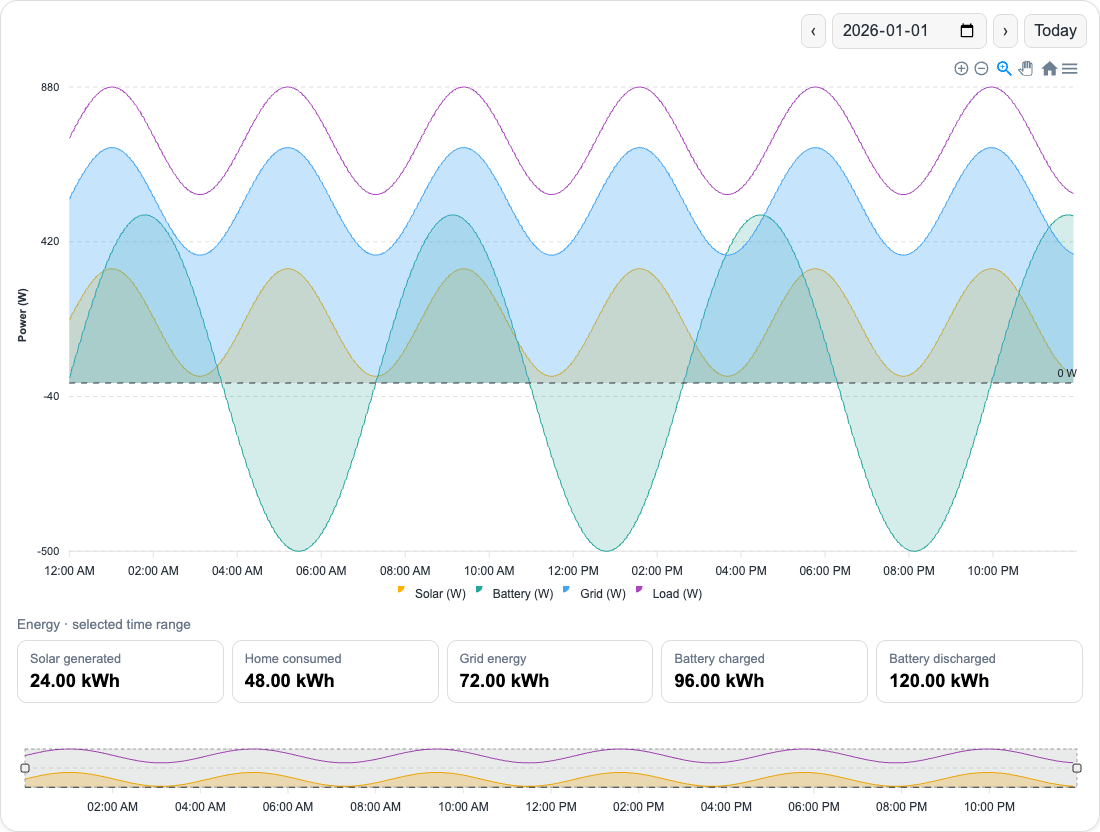
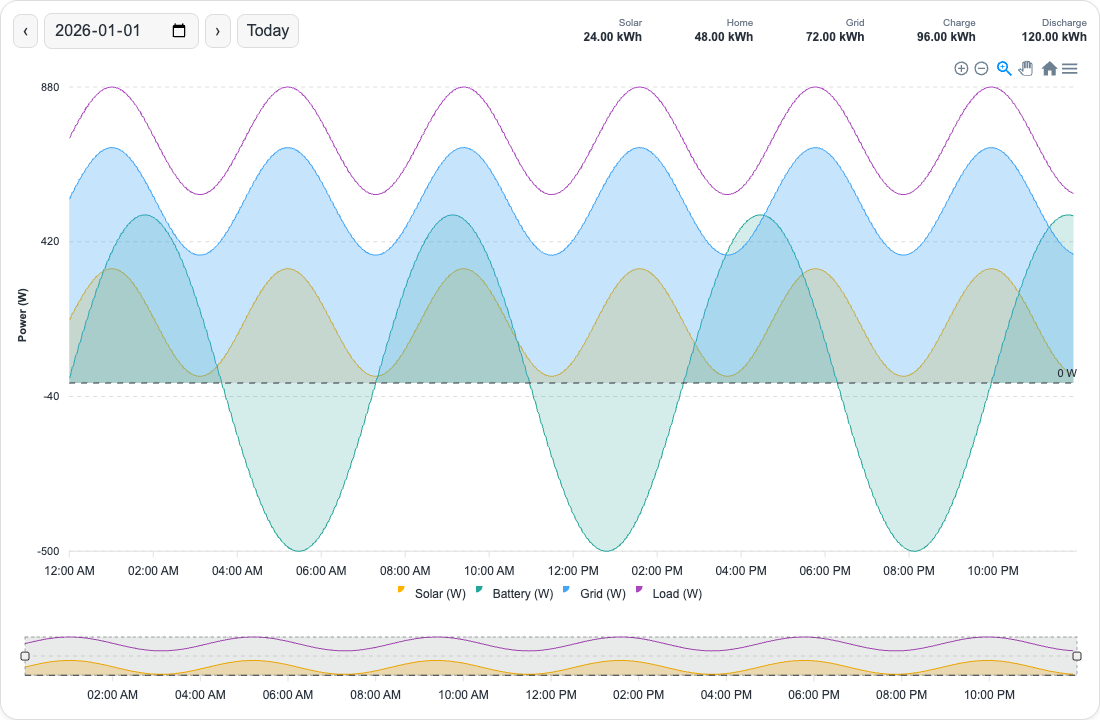
Move energy totals into compact top-right header without increasing card height

diff --git a/dist/solar-energy-flow-card.js b/dist/solar-energy-flow-card.js
@@ -43,6 +43,7 @@ const ApexCharts = SolarEnergyCharts;
 /* global SolarEnergyCharts */
 const ENERGY_KEYS = ['solar', 'battery', 'grid', 'load'];
 const ENERGY_COLORS = ['#ffb300', '#26a69a', '#42a5f5', '#ab47bc'];
+const ENERGY_SUMMARY_SHORT = { solar: 'Solar', load: 'Home', grid: 'Grid', grid_import: 'Import', grid_export: 'Export', battery_charge: 'Charge', battery_discharge: 'Discharge' };
 const ENERGY_SUMMARY = {
   solar: 'Solar generated', load: 'Home consumed', grid: 'Grid energy',
   grid_import: 'Grid imported', grid_export: 'Grid exported',
@@ -150,7 +151,7 @@ class SolarEnergyFlowCard extends HTMLElement {
   }
 
   connectedCallback() { if (this.config) this.render(); }
-  disconnectedCallback() { this.renderId = (this.renderId || 0) + 1; this.destroyCharts(); }
+  disconnectedCallback() { this.layoutObserver?.disconnect(); this.renderId = (this.renderId || 0) + 1; this.destroyCharts(); }
   getCardSize() { return Math.ceil((this.config?.apex_config?.chart?.height || 550) / 50) + 3; }
   getGridOptions() { return { columns: 24, rows: 11, min_columns: 6, min_rows: 6 }; }
 
@@ -263,9 +264,11 @@ class SolarEnergyFlowCard extends HTMLElement {
       const element = this.shadowRoot.querySelector(`[data-energy="${item.key}"]`);
       if (!element) continue;
       const result = this.loading || this.error ? { value: null, reason: this.error || 'Loading energy history' } : this.energyTotal(item);
-      element.querySelector('.summary-label').textContent = item.label;
+      element.querySelector('.summary-label').textContent = ENERGY_SUMMARY_SHORT[item.key];
       element.querySelector('.summary-value').textContent = result.value === null ? '—' : `${result.value.toFixed(this.config.summary?.precision ?? 2)} kWh`;
       element.querySelector('.summary-note').textContent = result.reason;
+      element.title = `${item.label}: ${result.value === null ? result.reason : element.querySelector('.summary-value').textContent}`;
+      element.setAttribute('aria-label', element.title);
     }
   }
 
@@ -329,6 +332,31 @@ class SolarEnergyFlowCard extends HTMLElement {
     return result;
   }
 
+  summaryChartHeight(height) {
+    if (!this.summaryEntities.length || typeof height !== 'number') return height;
+    const row = this.shadowRoot?.querySelector('.header-row')?.getBoundingClientRect?.();
+    const controls = this.shadowRoot?.querySelector('.controls')?.getBoundingClientRect?.();
+    // A wrapped compact summary uses chart space, keeping the card's total height unchanged.
+    const extra = row && controls ? Math.max(0, row.height - controls.height) : 0;
+    return Math.max(1, height - extra);
+  }
+
+  observeSummaryLayout() {
+    this.layoutObserver?.disconnect();
+    if (!this.summaryEntities.length || typeof ResizeObserver === 'undefined') return;
+    const renderId = this.renderId;
+    this.layoutObserver = new ResizeObserver(() => {
+      if (renderId !== this.renderId) return;
+      const chart = this.charts?.[0];
+      const height = this.summaryChartHeight(this.config.apex_config?.chart?.height ?? 550);
+      if (chart && typeof height === 'number' && Math.abs(Number(chart.w.config.chart.height) - height) > 0.5) {
+        chart.updateOptions({ chart: { height } }, false, false).catch(() => {});
+      }
+    });
+    const row = this.shadowRoot.querySelector('.header-row');
+    if (row) this.layoutObserver.observe(row);
+  }
+
   chartOptions(isBrush = false) {
     const { start, end } = this.bounds();
     const visible = isBrush ? this.series.filter(series => series.show?.in_brush === true) : this.series;
@@ -358,6 +386,7 @@ class SolarEnergyFlowCard extends HTMLElement {
       noData: { text: 'No recorded history for this date' },
     }, isBrush ? this.config.brush?.apex_config : this.config.apex_config);
     // Identity, history data, and date boundaries belong to this card, not raw Apex options.
+    if (!isBrush) options.chart.height = this.summaryChartHeight(options.chart.height);
     options.chart.id = isBrush ? `${this.chartId}-brush` : this.chartId;
     options.chart.events = energyMerge(options.chart.events, { beforeResetZoom: () => {
       // Apex's brush keeps its old selection after toolbar reset unless it is reset too.
@@ -422,6 +451,7 @@ class SolarEnergyFlowCard extends HTMLElement {
         await chart.render();
       }
       if (renderId !== this.renderId || this.isConnected === false) this.destroyCharts();
+      else this.observeSummaryLayout();
     }).catch(error => {
       this.destroyCharts();
       if (renderId !== this.renderId) return;
@@ -432,27 +462,32 @@ class SolarEnergyFlowCard extends HTMLElement {
 
   render() {
     if (!this.shadowRoot) return;
+    this.layoutObserver?.disconnect();
     this.renderId = (this.renderId || 0) + 1;
     const day = this.dayString(this.date);
     const title = this.config.header?.title ?? this.config.title ?? '';
     const showTitle = this.config.header?.show !== false && title.trim() !== '';
     const showBrush = this.config.experimental?.brush !== false;
+    const summaryMarkup = this.summaryEntities.length ? `<section class="energy-summary" aria-label="Energy summary for selected time range"><p class="summary-caption"></p><div class="summary-grid">${this.summaryEntities.map(item => `<div class="summary-item" data-energy="${item.key}" tabindex="0"><div class="summary-label"></div><div class="summary-value"></div><div class="summary-note"></div></div>`).join('')}</div></section>` : '';
     this.shadowRoot.innerHTML = `<style>
       :host{display:block;min-width:0}ha-card{padding:12px;overflow:hidden}
-      .head{display:flex;align-items:center;gap:12px;flex-wrap:wrap;margin-bottom:8px}
-      .title{font-size:1.2rem;font-weight:500;flex:1 1 100%;overflow-wrap:anywhere}
+      .head{display:flex;flex-direction:column;gap:8px;margin-bottom:8px}.header-row{display:flex;align-items:center;gap:8px;flex-wrap:wrap;min-width:0}
+      .title{font-size:1.2rem;font-weight:500;overflow-wrap:anywhere}
       .controls{display:flex;justify-content:flex-end;align-items:center;gap:6px;flex:1;min-width:0}
       button,input{font:inherit;border:1px solid var(--divider-color,#ddd);border-radius:8px;background:var(--secondary-background-color,#f7f7f7);padding:7px 9px;color:var(--primary-text-color,inherit);min-width:0}
       button{cursor:pointer;flex-shrink:0}input{max-width:165px}button:focus-visible,input:focus-visible{outline:2px solid var(--primary-color,#03a9f4)}
       #chart,#brush{min-width:0}.status{font-size:.9rem;color:var(--secondary-text-color,#697586)}
-      .energy-summary{margin:10px 4px 16px}.summary-caption{font-size:.85rem;color:var(--secondary-text-color,#697586);margin:0 0 8px}
-      .summary-grid{display:grid;grid-template-columns:repeat(auto-fit,minmax(125px,1fr));gap:8px}
-      .summary-item{padding:10px 12px;border:1px solid var(--divider-color,#ddd);border-radius:10px;min-width:0}
-      .summary-label{font-size:.8rem;color:var(--secondary-text-color,#697586)}.summary-value{font-size:1.15rem;font-weight:600;margin-top:4px;font-variant-numeric:tabular-nums}
-      .summary-note{font-size:.75rem;color:var(--secondary-text-color,#697586);overflow-wrap:anywhere}.summary-note:empty{display:none}
+      .header-row:has(.energy-summary) .controls{flex:0 1 auto}
+      .energy-summary{flex:1 1 350px;max-width:550px;min-width:0;margin-left:auto;overflow-x:auto}
+      .summary-grid{display:grid;grid-auto-flow:column;grid-auto-columns:minmax(62px,1fr);gap:6px}
+      .summary-item{min-width:0;text-align:right;line-height:1.25;border-radius:3px}
+      .summary-label{font-size:10px;color:var(--secondary-text-color,#697586);white-space:nowrap}
+      .summary-value{font-size:12px;font-weight:600;white-space:nowrap;font-variant-numeric:tabular-nums;color:var(--primary-text-color,inherit)}
+      .summary-caption,.summary-note{position:absolute;width:1px;height:1px;padding:0;overflow:hidden;clip-path:inset(50%);white-space:nowrap}
+      .summary-item:focus-visible{outline:2px solid var(--primary-color,#03a9f4);outline-offset:-2px}
       .apexcharts-tooltip,.apexcharts-menu{color:#222}.apexcharts-theme-dark{color:#eee}
       @media(max-width:400px){ha-card{padding:8px}.controls{gap:4px}button,input{padding:6px}input{width:130px}}
-    </style><ha-card><div class="head">${showTitle ? '<div class="title"></div>' : ''}<div class="controls"><button id="prev" aria-label="Previous day">‹</button><input id="date" aria-label="History date" type="date" value="${day}"><button id="next" aria-label="Next day">›</button><button id="today">Today</button></div></div><div class="status" role="status"></div><div id="chart"></div>${this.summaryEntities.length ? `<section class="energy-summary" aria-label="Energy summary"><p class="summary-caption"></p><div class="summary-grid">${this.summaryEntities.map(item => `<div class="summary-item" data-energy="${item.key}"><div class="summary-label"></div><div class="summary-value"></div><div class="summary-note"></div></div>`).join('')}</div></section>` : ''}${showBrush ? '<div id="brush"></div>' : ''}</ha-card>`;
+    </style><ha-card><div class="head">${showTitle ? '<div class="title"></div>' : ''}<div class="header-row"><div class="controls"><button id="prev" aria-label="Previous day">‹</button><input id="date" aria-label="History date" type="date" value="${day}"><button id="next" aria-label="Next day">›</button><button id="today">Today</button></div>${summaryMarkup}</div></div><div class="status" role="status"></div><div id="chart"></div>${showBrush ? '<div id="brush"></div>' : ''}</ha-card>`;
     const heading = this.shadowRoot.querySelector('.title');
     if (showTitle && heading) heading.textContent = title;
     const status = this.shadowRoot.querySelector('.status');

diff --git a/cards/solar-energy-flow-card/solar-energy-flow-card.js b/cards/solar-energy-flow-card/solar-energy-flow-card.js
@@ -1,6 +1,7 @@
 /* global SolarEnergyCharts */
 const ENERGY_KEYS = ['solar', 'battery', 'grid', 'load'];
 const ENERGY_COLORS = ['#ffb300', '#26a69a', '#42a5f5', '#ab47bc'];
+const ENERGY_SUMMARY_SHORT = { solar: 'Solar', load: 'Home', grid: 'Grid', grid_import: 'Import', grid_export: 'Export', battery_charge: 'Charge', battery_discharge: 'Discharge' };
 const ENERGY_SUMMARY = {
   solar: 'Solar generated', load: 'Home consumed', grid: 'Grid energy',
   grid_import: 'Grid imported', grid_export: 'Grid exported',
@@ -108,7 +109,7 @@ class SolarEnergyFlowCard extends HTMLElement {
   }
 
   connectedCallback() { if (this.config) this.render(); }
-  disconnectedCallback() { this.renderId = (this.renderId || 0) + 1; this.destroyCharts(); }
+  disconnectedCallback() { this.layoutObserver?.disconnect(); this.renderId = (this.renderId || 0) + 1; this.destroyCharts(); }
   getCardSize() { return Math.ceil((this.config?.apex_config?.chart?.height || 550) / 50) + 3; }
   getGridOptions() { return { columns: 24, rows: 11, min_columns: 6, min_rows: 6 }; }
 
@@ -221,9 +222,11 @@ class SolarEnergyFlowCard extends HTMLElement {
       const element = this.shadowRoot.querySelector(`[data-energy="${item.key}"]`);
       if (!element) continue;
       const result = this.loading || this.error ? { value: null, reason: this.error || 'Loading energy history' } : this.energyTotal(item);
-      element.querySelector('.summary-label').textContent = item.label;
+      element.querySelector('.summary-label').textContent = ENERGY_SUMMARY_SHORT[item.key];
       element.querySelector('.summary-value').textContent = result.value === null ? '—' : `${result.value.toFixed(this.config.summary?.precision ?? 2)} kWh`;
       element.querySelector('.summary-note').textContent = result.reason;
+      element.title = `${item.label}: ${result.value === null ? result.reason : element.querySelector('.summary-value').textContent}`;
+      element.setAttribute('aria-label', element.title);
     }
   }
 
@@ -287,6 +290,31 @@ class SolarEnergyFlowCard extends HTMLElement {
     return result;
   }
 
+  summaryChartHeight(height) {
+    if (!this.summaryEntities.length || typeof height !== 'number') return height;
+    const row = this.shadowRoot?.querySelector('.header-row')?.getBoundingClientRect?.();
+    const controls = this.shadowRoot?.querySelector('.controls')?.getBoundingClientRect?.();
+    // A wrapped compact summary uses chart space, keeping the card's total height unchanged.
+    const extra = row && controls ? Math.max(0, row.height - controls.height) : 0;
+    return Math.max(1, height - extra);
+  }
+
+  observeSummaryLayout() {
+    this.layoutObserver?.disconnect();
+    if (!this.summaryEntities.length || typeof ResizeObserver === 'undefined') return;
+    const renderId = this.renderId;
+    this.layoutObserver = new ResizeObserver(() => {
+      if (renderId !== this.renderId) return;
+      const chart = this.charts?.[0];
+      const height = this.summaryChartHeight(this.config.apex_config?.chart?.height ?? 550);
+      if (chart && typeof height === 'number' && Math.abs(Number(chart.w.config.chart.height) - height) > 0.5) {
+        chart.updateOptions({ chart: { height } }, false, false).catch(() => {});
+      }
+    });
+    const row = this.shadowRoot.querySelector('.header-row');
+    if (row) this.layoutObserver.observe(row);
+  }
+
   chartOptions(isBrush = false) {
     const { start, end } = this.bounds();
     const visible = isBrush ? this.series.filter(series => series.show?.in_brush === true) : this.series;
@@ -316,6 +344,7 @@ class SolarEnergyFlowCard extends HTMLElement {
       noData: { text: 'No recorded history for this date' },
     }, isBrush ? this.config.brush?.apex_config : this.config.apex_config);
     // Identity, history data, and date boundaries belong to this card, not raw Apex options.
+    if (!isBrush) options.chart.height = this.summaryChartHeight(options.chart.height);
     options.chart.id = isBrush ? `${this.chartId}-brush` : this.chartId;
     options.chart.events = energyMerge(options.chart.events, { beforeResetZoom: () => {
       // Apex's brush keeps its old selection after toolbar reset unless it is reset too.
@@ -380,6 +409,7 @@ class SolarEnergyFlowCard extends HTMLElement {
         await chart.render();
       }
       if (renderId !== this.renderId || this.isConnected === false) this.destroyCharts();
+      else this.observeSummaryLayout();
     }).catch(error => {
       this.destroyCharts();
       if (renderId !== this.renderId) return;
@@ -390,27 +420,32 @@ class SolarEnergyFlowCard extends HTMLElement {
 
   render() {
     if (!this.shadowRoot) return;
+    this.layoutObserver?.disconnect();
     this.renderId = (this.renderId || 0) + 1;
     const day = this.dayString(this.date);
     const title = this.config.header?.title ?? this.config.title ?? '';
     const showTitle = this.config.header?.show !== false && title.trim() !== '';
     const showBrush = this.config.experimental?.brush !== false;
+    const summaryMarkup = this.summaryEntities.length ? `<section class="energy-summary" aria-label="Energy summary for selected time range"><p class="summary-caption"></p><div class="summary-grid">${this.summaryEntities.map(item => `<div class="summary-item" data-energy="${item.key}" tabindex="0"><div class="summary-label"></div><div class="summary-value"></div><div class="summary-note"></div></div>`).join('')}</div></section>` : '';
     this.shadowRoot.innerHTML = `<style>
       :host{display:block;min-width:0}ha-card{padding:12px;overflow:hidden}
-      .head{display:flex;align-items:center;gap:12px;flex-wrap:wrap;margin-bottom:8px}
-      .title{font-size:1.2rem;font-weight:500;flex:1 1 100%;overflow-wrap:anywhere}
+      .head{display:flex;flex-direction:column;gap:8px;margin-bottom:8px}.header-row{display:flex;align-items:center;gap:8px;flex-wrap:wrap;min-width:0}
+      .title{font-size:1.2rem;font-weight:500;overflow-wrap:anywhere}
       .controls{display:flex;justify-content:flex-end;align-items:center;gap:6px;flex:1;min-width:0}
       button,input{font:inherit;border:1px solid var(--divider-color,#ddd);border-radius:8px;background:var(--secondary-background-color,#f7f7f7);padding:7px 9px;color:var(--primary-text-color,inherit);min-width:0}
       button{cursor:pointer;flex-shrink:0}input{max-width:165px}button:focus-visible,input:focus-visible{outline:2px solid var(--primary-color,#03a9f4)}
       #chart,#brush{min-width:0}.status{font-size:.9rem;color:var(--secondary-text-color,#697586)}
-      .energy-summary{margin:10px 4px 16px}.summary-caption{font-size:.85rem;color:var(--secondary-text-color,#697586);margin:0 0 8px}
-      .summary-grid{display:grid;grid-template-columns:repeat(auto-fit,minmax(125px,1fr));gap:8px}
-      .summary-item{padding:10px 12px;border:1px solid var(--divider-color,#ddd);border-radius:10px;min-width:0}
-      .summary-label{font-size:.8rem;color:var(--secondary-text-color,#697586)}.summary-value{font-size:1.15rem;font-weight:600;margin-top:4px;font-variant-numeric:tabular-nums}
-      .summary-note{font-size:.75rem;color:var(--secondary-text-color,#697586);overflow-wrap:anywhere}.summary-note:empty{display:none}
+      .header-row:has(.energy-summary) .controls{flex:0 1 auto}
+      .energy-summary{flex:1 1 350px;max-width:550px;min-width:0;margin-left:auto;overflow-x:auto}
+      .summary-grid{display:grid;grid-auto-flow:column;grid-auto-columns:minmax(62px,1fr);gap:6px}
+      .summary-item{min-width:0;text-align:right;line-height:1.25;border-radius:3px}
+      .summary-label{font-size:10px;color:var(--secondary-text-color,#697586);white-space:nowrap}
+      .summary-value{font-size:12px;font-weight:600;white-space:nowrap;font-variant-numeric:tabular-nums;color:var(--primary-text-color,inherit)}
+      .summary-caption,.summary-note{position:absolute;width:1px;height:1px;padding:0;overflow:hidden;clip-path:inset(50%);white-space:nowrap}
+      .summary-item:focus-visible{outline:2px solid var(--primary-color,#03a9f4);outline-offset:-2px}
       .apexcharts-tooltip,.apexcharts-menu{color:#222}.apexcharts-theme-dark{color:#eee}
       @media(max-width:400px){ha-card{padding:8px}.controls{gap:4px}button,input{padding:6px}input{width:130px}}
-    </style><ha-card><div class="head">${showTitle ? '<div class="title"></div>' : ''}<div class="controls"><button id="prev" aria-label="Previous day">‹</button><input id="date" aria-label="History date" type="date" value="${day}"><button id="next" aria-label="Next day">›</button><button id="today">Today</button></div></div><div class="status" role="status"></div><div id="chart"></div>${this.summaryEntities.length ? `<section class="energy-summary" aria-label="Energy summary"><p class="summary-caption"></p><div class="summary-grid">${this.summaryEntities.map(item => `<div class="summary-item" data-energy="${item.key}"><div class="summary-label"></div><div class="summary-value"></div><div class="summary-note"></div></div>`).join('')}</div></section>` : ''}${showBrush ? '<div id="brush"></div>' : ''}</ha-card>`;
+    </style><ha-card><div class="head">${showTitle ? '<div class="title"></div>' : ''}<div class="header-row"><div class="controls"><button id="prev" aria-label="Previous day">‹</button><input id="date" aria-label="History date" type="date" value="${day}"><button id="next" aria-label="Next day">›</button><button id="today">Today</button></div>${summaryMarkup}</div></div><div class="status" role="status"></div><div id="chart"></div>${showBrush ? '<div id="brush"></div>' : ''}</ha-card>`;
     const heading = this.shadowRoot.querySelector('.title');
     if (showTitle && heading) heading.textContent = title;
     const status = this.shadowRoot.querySelector('.status');

diff --git a/cards/solar-energy-flow-card/README.md b/cards/solar-energy-flow-card/README.md
@@ -47,7 +47,7 @@ Use the arrows, date field, and Today button to load a day. The day uses the bro
 
 ## Energy summary
 
-Configure cumulative energy sensors to show a summary row between the main chart and the mini graph. See the [full energy summary example](examples/energy-summary.yaml). The existing graph configuration remains unchanged.
+Configure cumulative energy sensors to show compact totals in the top-right header beside the date controls. See the [full energy summary example](examples/energy-summary.yaml). The large tiles below the chart are removed. Short labels keep the totals small; hover an item for its full description and any missing-data explanation; keyboard focus exposes the same information to assistive technology. On narrow cards the totals wrap below the date controls and the main plot shrinks by the same amount, keeping the card's overall height unchanged.
 
 ```yaml
 summary:
@@ -81,11 +81,11 @@ Totals are the counter at the end of the selected range minus its value at the s
 
 The `grid` label is **Grid energy**, and defaults to `net` mode: negative changes remain negative. Use optional `grid_import` and `grid_export` keys only when you have separate cumulative counters for those directions. One net helper cannot supply both import and export totals. Other keys default to `increasing` mode. `net` permits decreases; `increasing` reports a detected counter decrease as unavailable. Explicit changes to `last_reset` make either mode unavailable for that range. The card does not guess consumption across resets.
 
-Missing history, unsupported units, unavailable boundary states, or detected resets display **—** with an explanation, rather than zero. A stable recorded counter can correctly show 0.00 kWh. Recorder must retain the energy helpers as well as the power sensors. Newly created helpers cannot backfill energy history from before they existed; the card does not use long-term statistics. An energy-history request failure leaves the power chart working.
+Missing history, unsupported units, unavailable boundary states, or detected resets display **—** with the explanation in the item tooltip and accessible label, rather than zero. A stable recorded counter can correctly show 0.00 kWh. Recorder must retain the energy helpers as well as the power sensors. Newly created helpers cannot backfill energy history from before they existed; the card does not use long-term statistics. An energy-history request failure leaves the power chart working.
 
 | Option | Default | Meaning |
 | --- | --- | --- |
-| `summary.show` | Enabled when entities are configured | Show the energy summary; `false` disables its history request and row |
+| `summary.show` | Enabled when entities are configured | Show the energy summary; `false` disables its history request and compact totals |
 | `summary.precision` | `2` | Decimal places in kWh, from 0 to 6 |
 | `summary.entities` | None | Any of `solar`, `load`, `grid`, `grid_import`, `grid_export`, `battery_charge`, `battery_discharge`, mapped to a sensor ID or object |
 | Per-helper `entity` | Required for object syntax | Cumulative energy sensor ID |

diff --git a/README.md b/README.md
@@ -6,7 +6,7 @@ Reusable Home Assistant Lovelace cards and dashboard snippets for energy and sma
 
 A date-selectable chart for solar, battery, grid, and load power history, with optional title, a dashed 0 W baseline, smooth areas, shared tooltips, zoom/export controls, and a brush overview. The ApexCharts engine is bundled locally; no separate chart installation is required. Install this repository as a HACS custom **Dashboard** repository. See the [installation guide and configuration options](cards/solar-energy-flow-card/README.md).
 
-The installable file is `dist/solar-energy-flow-card.js`; editable source is under `cards/solar-energy-flow-card/`. Build it with `npm run build`. Optional energy summary tiles can use your cumulative helpers; see the [energy summary example](cards/solar-energy-flow-card/examples/energy-summary.yaml). Both the original `entities:` shorthand and the [ApexCharts-style example](cards/solar-energy-flow-card/examples/apexcharts-style.yaml) are supported.
+The installable file is `dist/solar-energy-flow-card.js`; editable source is under `cards/solar-energy-flow-card/`. Build it with `npm run build`. Optional compact energy totals in the top-right header can use your cumulative helpers; see the [energy summary example](cards/solar-energy-flow-card/examples/energy-summary.yaml). Both the original `entities:` shorthand and the [ApexCharts-style example](cards/solar-energy-flow-card/examples/apexcharts-style.yaml) are supported.
 
 ![Solar Energy Flow Card with an optional heading, dashed zero baseline, and brush overview](docs/images/solar-energy-flow-card.png)
 

diff --git a/docs/architecture.md b/docs/architecture.md
@@ -7,3 +7,5 @@ Configuration comes from private dashboard YAML. The card uses Home Assistant's 
 The card normalizes either entities or explicit series into one plot configuration. Recorded samples are grouped into aligned buckets so shared tooltips can compare readings at matching timestamps. Rendering is serialized; chart instances are destroyed on reconfiguration, date changes, or disconnection. Each card has unique main/brush IDs, and its engine constructor is kept private in the distribution scope.
 
 Optional energy summaries load cumulative helper histories in a separate, failure-isolated request. Attributes are retained to normalize units and detect explicit resets. Totals are counter differences at the selected main-chart boundaries, using recorded step values rather than interpolation or power integration. Main-chart mounted/updated/zoom/scrolled events keep the summary aligned with brush and toolbar changes. Energy IDs belong in private configuration, not source.
+
+Energy totals use the header's existing vertical space on wide cards. If the totals wrap onto a second header row, its extra height is subtracted from the configured main plot height. A header ResizeObserver keeps the height budget consistent across responsive layout changes; summary descriptions stay in tooltips/accessibility text rather than adding visible rows.

diff --git a/CHANGELOG.md b/CHANGELOG.md
@@ -2,6 +2,10 @@
 
 ## Unreleased
 
+- Moved energy totals from large bottom tiles into a compact top-right header block, with full descriptions available on hover/focus.
+- Kept the original card height when totals wrap on narrow cards by reallocating plot height, including on resize.
+
+
 - Added optional selected-range energy summaries from cumulative energy helpers, with solar/load/grid and separate battery charge/discharge totals.
 - Added Wh/kWh/MWh conversion, explicit missing/reset explanations, zoom/brush synchronization, and a generic summary example.
 
